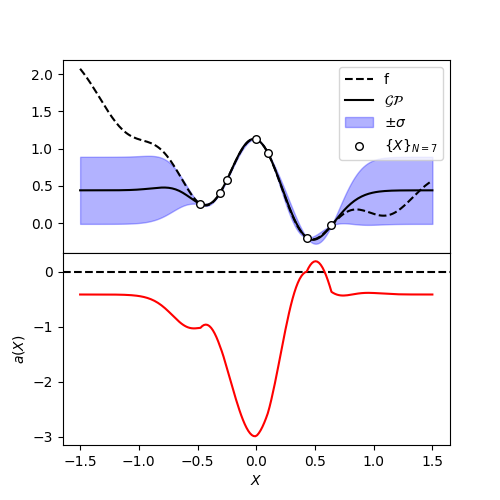
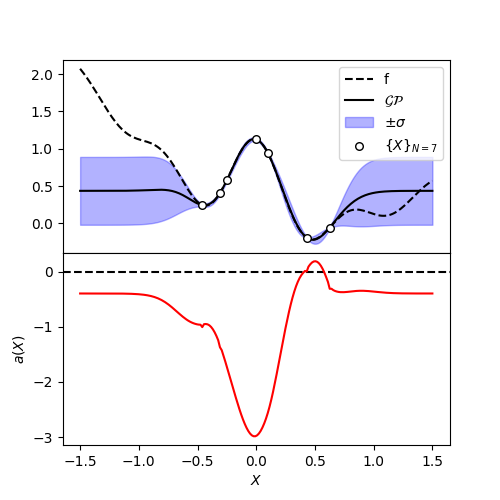
updated smsego script and added input transforms to bayesopt experiment

diff --git a/scripts/bayesopt_experiment.py b/scripts/bayesopt_experiment.py
@@ -8,6 +8,8 @@ import tensorflow as tf
 
 from boa.objective.abstract import AbstractObjective
 
+from boa.core import transform_df
+
 from boa.models.random import RandomModel
 from boa.models.fully_factorized_gp import FullyFactorizedGPModel
 from boa.models.gpar import GPARModel
@@ -49,6 +51,9 @@ def bayesopt_config(dataset):
 
     # GP kernel to use.
     kernel = "matern52"
+
+    use_input_transforms = True
+    use_output_transforms = False
 
     # Number of random initializations to try in a single training cycle.
     num_optimizer_restarts = 5
@@ -92,12 +97,23 @@ tf.config.experimental.set_visible_devices([], 'GPU')
 
 
 class Objective(AbstractObjective):
-    def __init__(self, df: pd.DataFrame, input_labels: List[str], output_labels: List[str], *args, **kwargs):
+    def __init__(self,
+                 df: pd.DataFrame,
+                 input_labels: List[str],
+                 output_labels: List[str],
+                 input_transforms: List[str] = None,
+                 *args,
+                 **kwargs):
         super().__init__(*args, **kwargs)
 
         self.data = df
         self.input_labels = input_labels
         self.output_labels = output_labels
+
+        self.input_transforms = input_transforms
+
+        if self.input_transforms is not None:
+            self.data = transform_df(self.data, self.input_transforms)
 
     def get_input_labels(self) -> List[str]:
         """Return input labels as a list of length D_input"""
@@ -182,6 +198,7 @@ def main(dataset,
          fit_joint,
          max_num_iterations,
          num_optimizer_restarts,
+         use_input_transforms,
          initialization,
          batch_size,
          verbose,
@@ -240,7 +257,10 @@ def main(dataset,
 
     # Run the optimization
     for seed in range(5):
-        results = optimize(objective=Objective(df=df, input_labels=input_labels, output_labels=output_labels),
+        results = optimize(objective=Objective(df=df,
+                                               input_labels=input_labels,
+                                               output_labels=output_labels,
+                                               input_transforms=dataset["input_transforms"] if use_input_transforms else None),
                            model=surrogate_model,
                            model_optimizer=optimizer,
                            model_optimizer_restarts=num_optimizer_restarts,

diff --git a/boa/models/multi_output_gp_regression_model.py b/boa/models/multi_output_gp_regression_model.py
@@ -339,8 +339,11 @@ class MultiOutputGPRegressionModel(tf.keras.Model, abc.ABC):
             ls_upper_bound = tf.ones(shape=(gp_input_dim,), dtype=self.dtype)
             ls_upper_bound = ls_upper_bound * marginal_percentiles[-1, :] * 64.
 
+
         else:
             raise NotImplementedError
+
+        ls_init = tf.clip_by_value(ls_init, length_scale_base_lower_bound, length_scale_base_upper_bound)
 
         # Create bounded variables
         length_scales = BoundedVariable(ls_init,
@@ -817,7 +820,8 @@ class MultiOutputGPRegressionModel(tf.keras.Model, abc.ABC):
                                  predictive=predictive)
 
         if average:
-            log_prob = log_prob / tf.cast(xs.shape[0], xs.dtype)
+            num_datapoints = xs.value().shape[0] if isinstance(xs, tf.Variable) else xs.shape[0]
+            log_prob = log_prob / tf.cast(num_datapoints, xs.dtype)
 
         return log_prob
 

diff --git a/scripts/smsego.py b/scripts/smsego.py
@@ -157,6 +157,10 @@ def automated_optimization(x_train, y_train):
                                         xs=x_train,
                                         ys=y_train,
                                         candidate_xs=x_cont,
+                                        initialization='l2_median',
+                                        iters=200,
+                                        fit_joint=False,
+                                        model_optimizer='l-bfgs-b',
                                         optimizer_restarts=3)
 
     model = model.condition_on(data_x, data_y, keep_previous=False)
